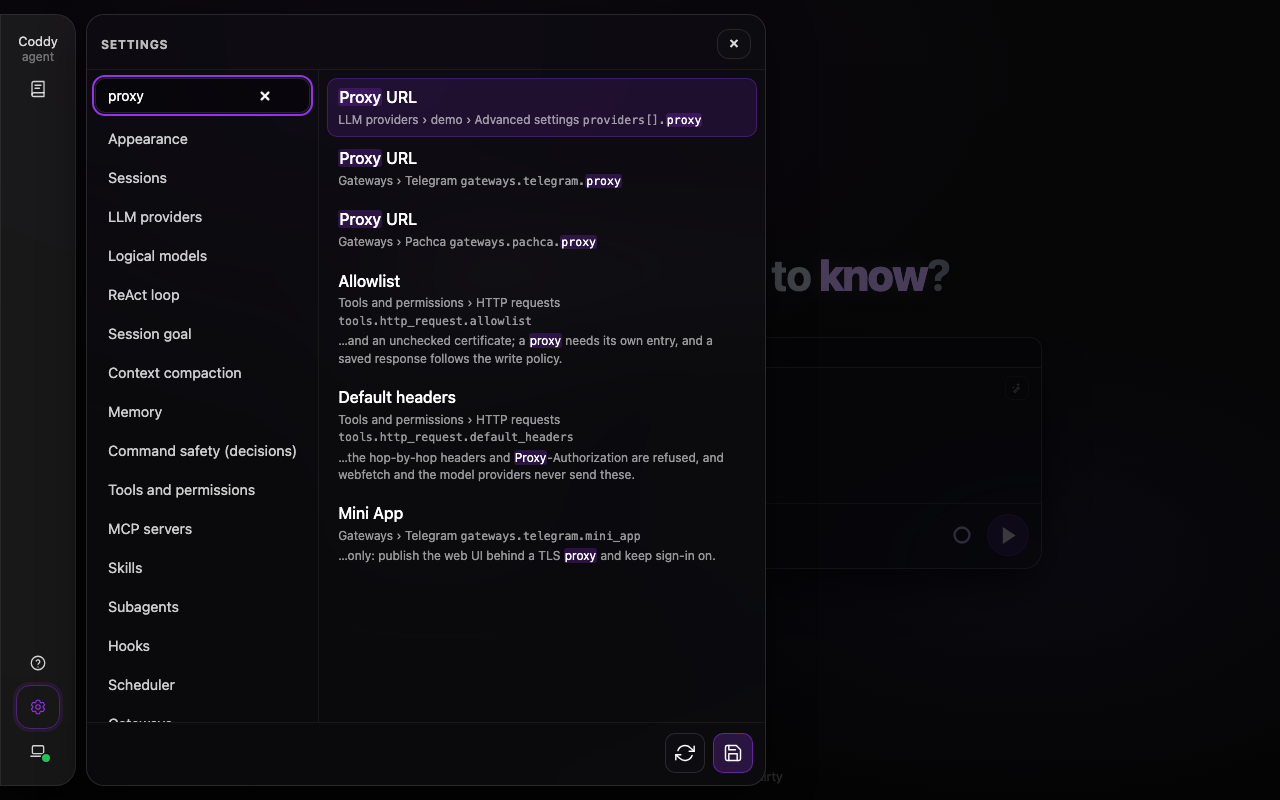
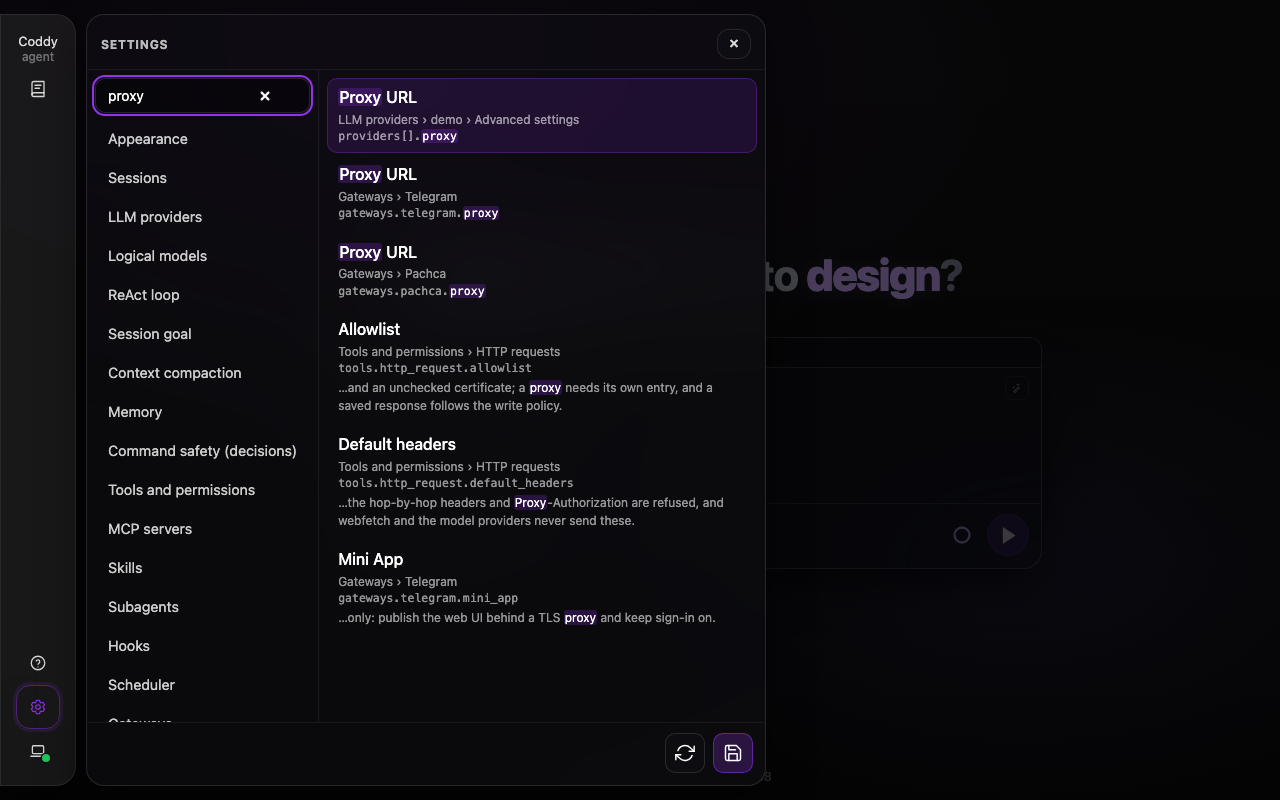
docs: recapture the settings search results
The result rows changed shape (the config key on a line of its own),
so the two screenshots of docs/surfaces/web-ui.md showed the old rows.

Both are taken again from the running build with neutral fixtures,
query `proxy`, Dark, at 1280 and 390 px.

Refs the settings search issue

Changed region(s): [[0.25, 0.125, 0.5938, 0.7812], [0.5938, 0.3125, 0.75, 0.375]]

diff --git a/docs/assets/INDEX.md b/docs/assets/INDEX.md
@@ -385,8 +385,8 @@ Generated by `make docs`. "Used by" lists the files that reference the asset.
 | `message-edit-undo-dark-1280.png` | 254 KB | docs/ru/surfaces/web-ui.md, docs/surfaces/web-ui.md |
 | `notifications-setting-dark-1280.png` | 98 KB | docs/ru/surfaces/web-ui.md, docs/surfaces/web-ui.md |
 | `question-card-own-answer-dark-1280.png` | 273 KB | docs/ru/surfaces/web-ui.md, docs/surfaces/web-ui.md |
-| `settings-search-results-dark-1280.png` | 219 KB | docs/ru/surfaces/web-ui.md, docs/surfaces/web-ui.md |
-| `settings-search-results-dark-390.png` | 93 KB | docs/ru/surfaces/web-ui.md, docs/surfaces/web-ui.md |
+| `settings-search-results-dark-1280.png` | 221 KB | docs/ru/surfaces/web-ui.md, docs/surfaces/web-ui.md |
+| `settings-search-results-dark-390.png` | 92 KB | docs/ru/surfaces/web-ui.md, docs/surfaces/web-ui.md |
 | `shared-file-menu-open-dark-1280.png` | 304 KB | docs/ru/surfaces/web-ui.md, docs/surfaces/web-ui.md |
 | `telegram-mini-app-mode-dark-390.png` | 55 KB | docs/ru/surfaces/web-ui.md, docs/surfaces/web-ui.md |
 | `telegram-mini-app-start-light-390.png` | 91 KB | docs/ru/surfaces/web-ui.md, docs/surfaces/web-ui.md |
